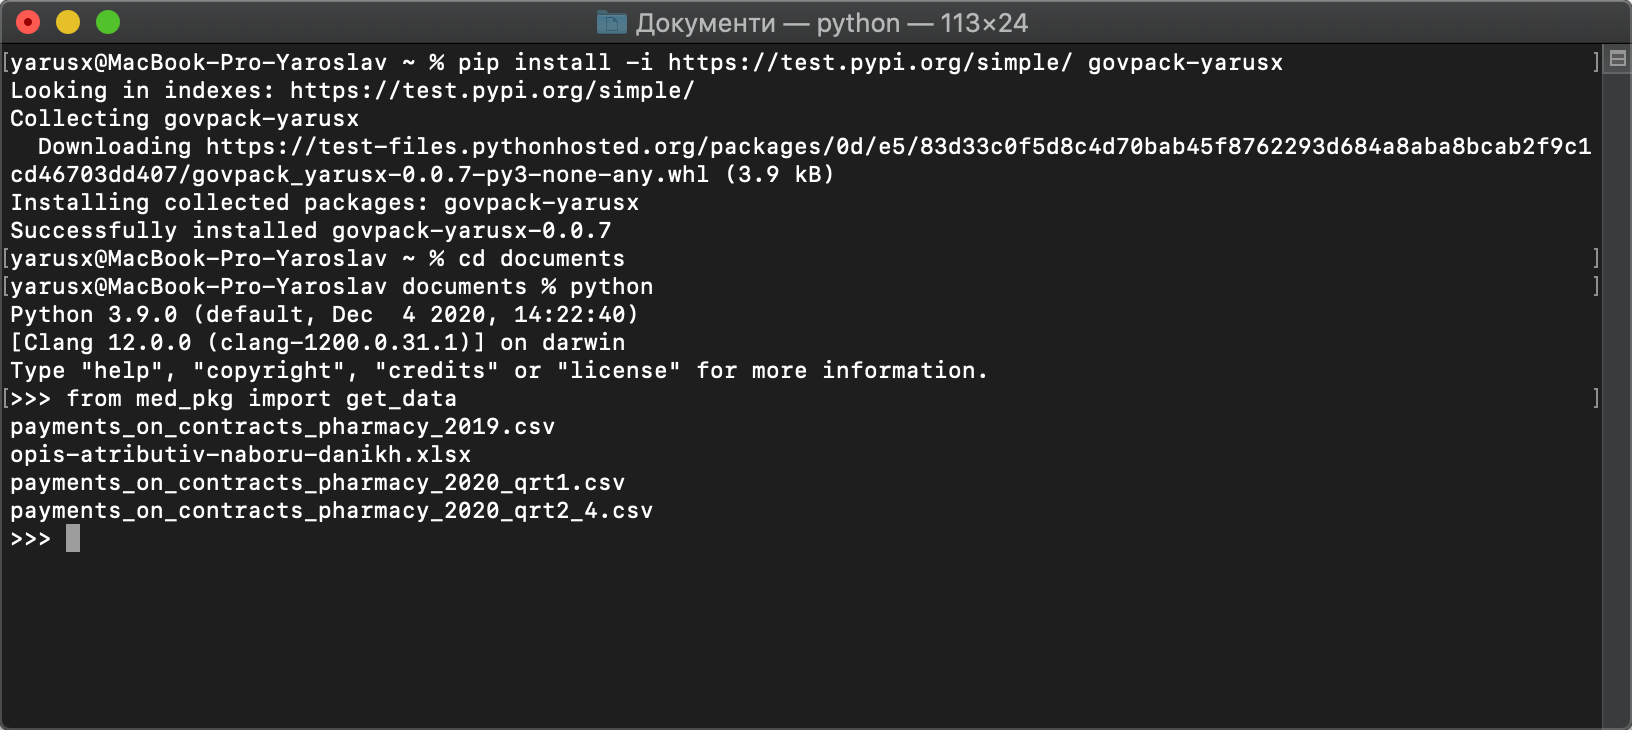
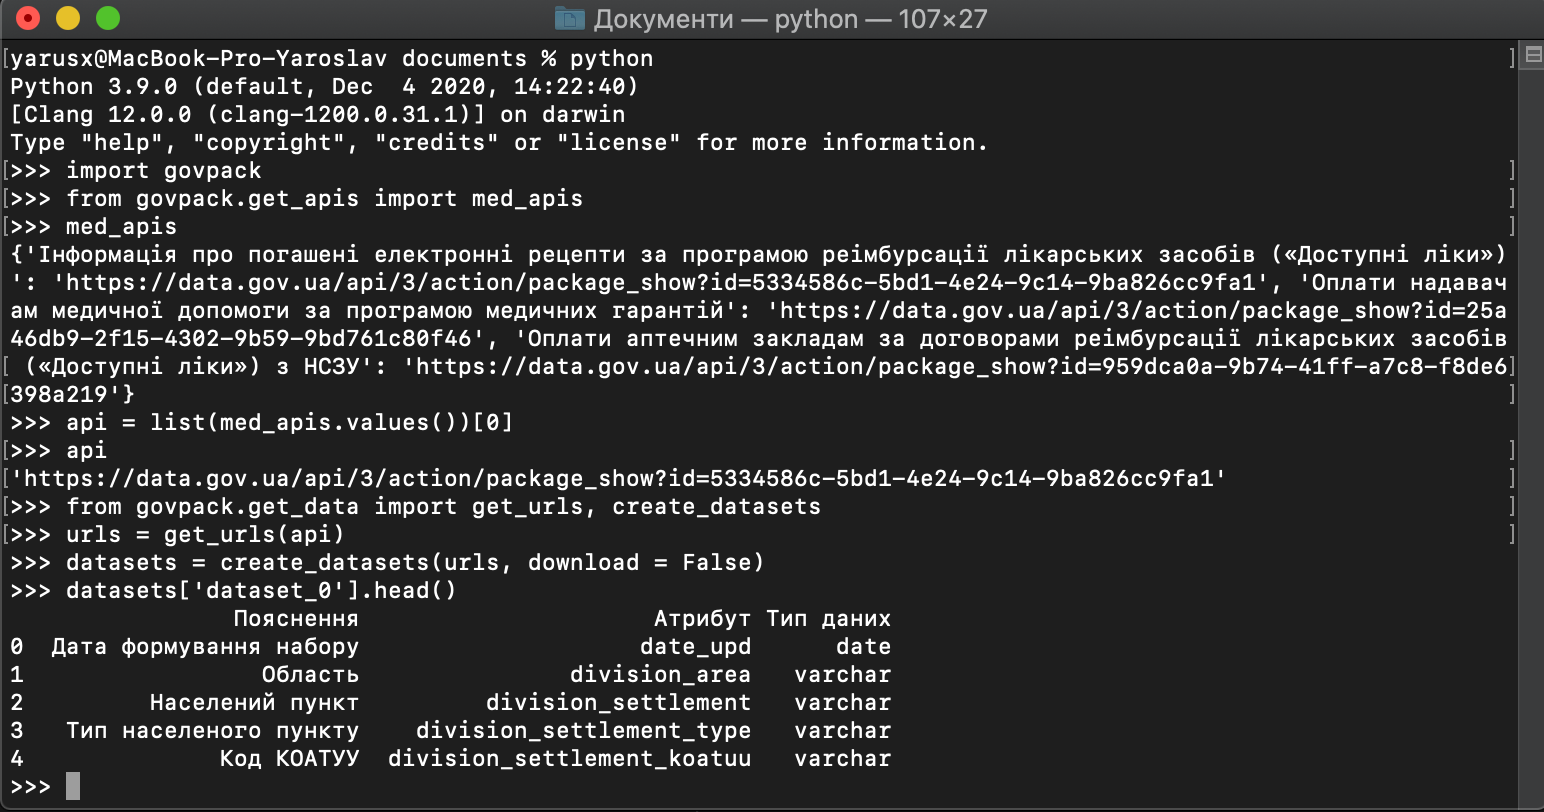
upadted readme and screenshot files

Changed region(s): [[0.0, 0.0, 1.0, 1.0], [0.4352, 0.663, 0.4974, 0.7233], [0.0, 0.8438, 0.0311, 0.874]]

diff --git a/setup.py b/setup.py
@@ -5,7 +5,7 @@ with open("README.md", "r") as fh:
 
 setuptools.setup(
     name="govpack-yarusx", # Replace with your own username
-    version="0.0.8",
+    version="0.0.9",
     author="Yaroslav Khoruzhenko",
     author_email="yarusx@gmail.com",
     description="A package that helps to get a useful data from https://data.gov.ua/",

diff --git a/README.md b/README.md
@@ -13,23 +13,38 @@ Installation:
 pip install -i https://test.pypi.org/simple/ govpack-yarusx
 
 #####
-Usage:
-After installing govpack-yarusx (test version) please use (both from command line or in your python file): <b>"from med_pkg import get_data"</b>. This will cause the downloading of 3 datasets and 1 data description files from https://data.gov.ua/dataset/959dca0a-9b74-41ff-a7c8-f8de6398a219.
+Usage example:
+After installing govpack-yarusx (test version) and opening python in your terminal:
 
-Installation and usage example:
+# Importing govpack.
+import govpack
+
+# Importing med_apis - dictionary that contains dataset name and API link (from data.gov.ua) key-value pairs.
+from govpack.get_apis import med_apis
+
+# Looking through the dictionary with APIs for different dataset collections.
+med_apis
+
+# Creating a string with a link to the first (as example) dataset collection.
+api = list(med_apis.values())[0]
+
+# Checking what we’ve got
+api
+
+# Importing get_urls and create_datasets functions.
+from govpack.get_data import get_urls, create_datasets
+
+# Creating a dictionary that contains link to dataset file and its extension as a key-value pairs.
+urls = get_urls(api)
+
+# Creating a dictionary that contains variable name (dataset_ + its No. according to urls dict) and pandas data frame as a key-value pairs. I.e.  dataset_0 will relate to 'https://data.gov.ua/dataset/193cb9ba-e12e-4987-a9a9-d464e834593e/resource/9fceb2ba-6fd3-42f8-8ffd-dd7d7c2ba821/download/opis-atributiv-naboru-danikh.xlsx‘. 'download = True‘ will cause downloading of the dataset files. Useful option while having troubles with creating datasets for some files with 'create_datasets’.
+datasets = create_datasets(urls, download = False)
+
+# Checking heads and the first five rows in the dataset_0
+datasets['dataset_0'].head()
+
+You could also follow the usecase described above from this picture:
 
 ![alt text](https://github.com/ThatAIGeek/govpack/blob/develop/govpack_usecase.png?raw=true)
 
-###### Alpha release action plan:
-- [ ]  possible package use cases:
-  - usecase 1
-  - usecase 2
-  - usecase 3
-- [ ]  get list of datasets to focus on at first stage
-  - dataset1 link
-  - dataset2 link
-  - dataset3 link
-- [ ]  write a simple package to setup and push into pypi
-- [ ]  decide on the best format for datasets(scipy?)
-- [ ]  add first dataset for the package
-- [ ]  create usage examples
+<img alt="https://github.com/ThatAIGeek/govpack/blob/develop/govpack_usecase.png">
